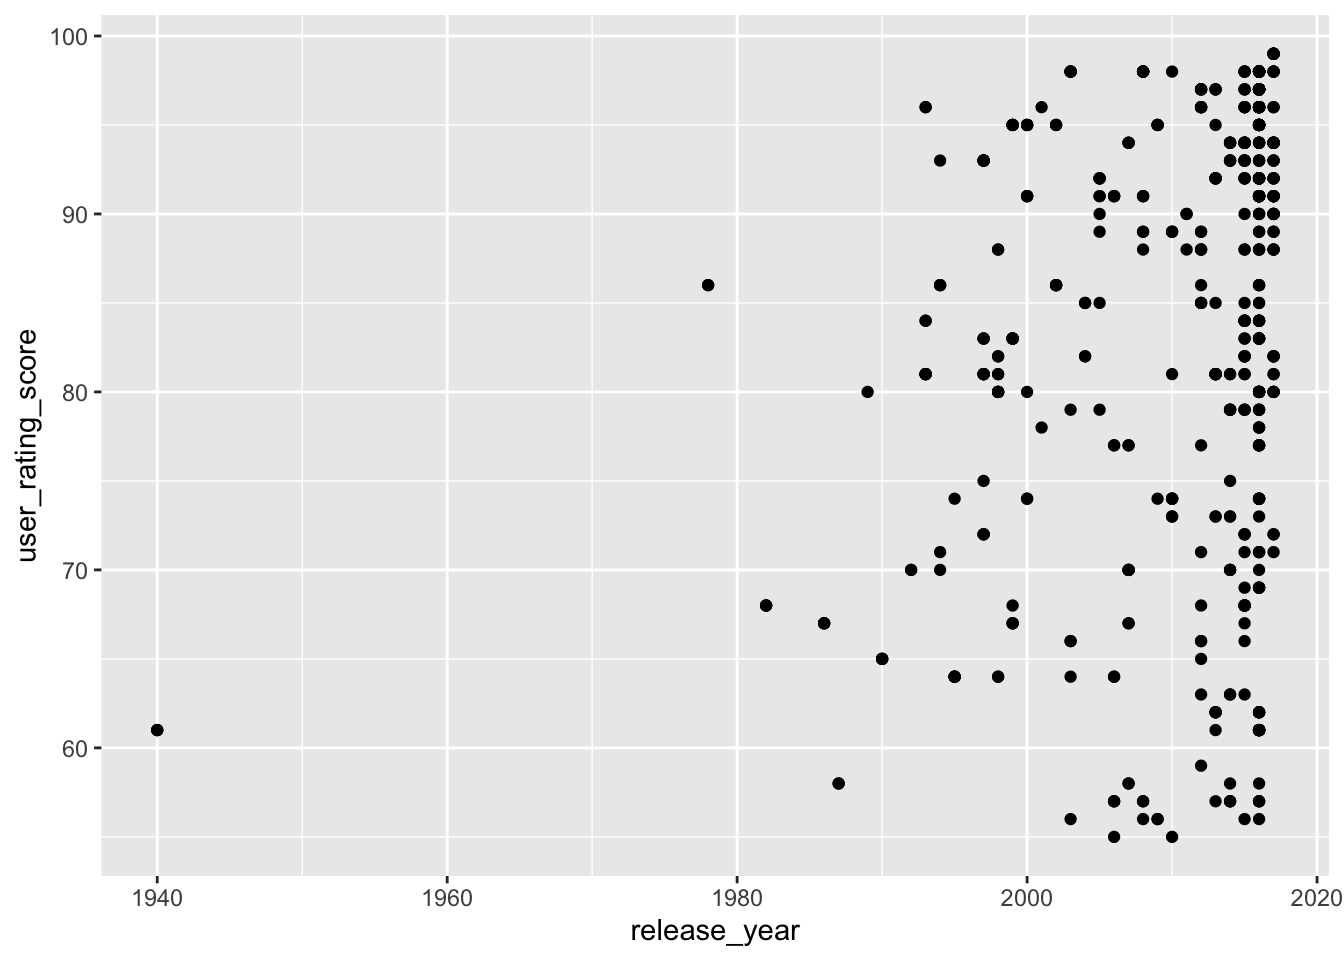
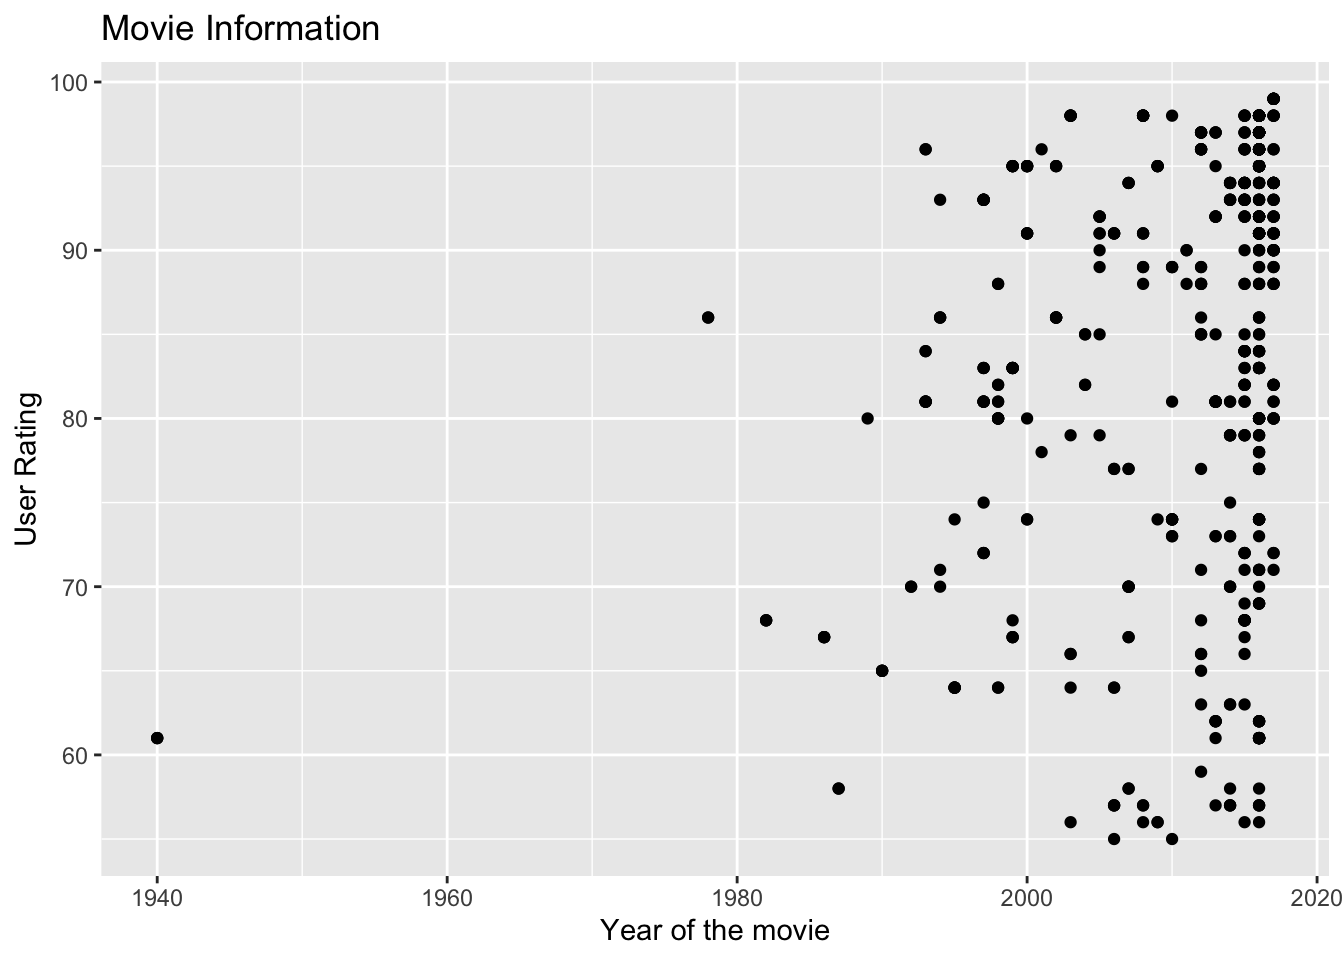
push

diff --git a/docs/inclass2.html b/docs/inclass2.html
@@ -6,6 +6,7 @@
 
 <meta name="viewport" content="width=device-width, initial-scale=1.0, user-scalable=yes">
 
+<meta name="dcterms.date" content="2023-11-01">
 
 <title>Zelha Tunc Pekkan Progress Journal - 3&nbsp; inclass2.qmd</title>
 <style>
@@ -197,6 +198,12 @@ pre > code.sourceCode > span > a:first-child::before { text-decoration: underlin
 <div class="quarto-title-meta">
 
     
+    <div>
+    <div class="quarto-title-meta-heading">Published</div>
+    <div class="quarto-title-meta-contents">
+      <p class="date">November 1, 2023</p>
+    </div>
+  </div>
   
     
   </div>
@@ -224,17 +231,55 @@ pre > code.sourceCode > span > a:first-child::before { text-decoration: underlin
 <span id="cb3-4"><a href="#cb3-4" aria-hidden="true" tabindex="-1"></a></span>
 <span id="cb3-5"><a href="#cb3-5" aria-hidden="true" tabindex="-1"></a><span class="fu">library</span>(dplyr)</span>
 <span id="cb3-6"><a href="#cb3-6" aria-hidden="true" tabindex="-1"></a></span>
-<span id="cb3-7"><a href="#cb3-7" aria-hidden="true" tabindex="-1"></a><span class="fu">library</span>(ggplot2)</span>
+<span id="cb3-7"><a href="#cb3-7" aria-hidden="true" tabindex="-1"></a><span class="fu">library</span>(tidyr)</span>
 <span id="cb3-8"><a href="#cb3-8" aria-hidden="true" tabindex="-1"></a></span>
-<span id="cb3-9"><a href="#cb3-9" aria-hidden="true" tabindex="-1"></a><span class="fu">library</span>(tidyr)</span></code><button title="Copy to Clipboard" class="code-copy-button"><i class="bi"></i></button></pre></div>
+<span id="cb3-9"><a href="#cb3-9" aria-hidden="true" tabindex="-1"></a><span class="fu">library</span>(ggplot2)</span></code><button title="Copy to Clipboard" class="code-copy-button"><i class="bi"></i></button></pre></div>
 </div>
-<pre class="{'''{r}"><code>netflix=readr::read_csv("netflix.csv")
-netflix'''</code></pre>
-<pre class="{'''{r}"><code>ggplot(netflix %&gt;% select(release_year, user_rating_score) %&gt;%
-filter(complete.cases(.)), 
-aes(x = release_year, y = user_rating_score)) + 
-geom_point()
-'''</code></pre>
+<div class="cell">
+<div class="sourceCode cell-code" id="cb4"><pre class="sourceCode r code-with-copy"><code class="sourceCode r"><span id="cb4-1"><a href="#cb4-1" aria-hidden="true" tabindex="-1"></a>netflix<span class="ot">=</span>readr<span class="sc">::</span><span class="fu">read_csv</span>(<span class="st">"netflix.csv"</span>)</span></code><button title="Copy to Clipboard" class="code-copy-button"><i class="bi"></i></button></pre></div>
+<div class="cell-output cell-output-stderr">
+<pre><code>Rows: 1000 Columns: 7
+── Column specification ────────────────────────────────────────────────────────
+Delimiter: ","
+chr (3): title, rating, ratinglevel
+dbl (4): ratingdescription, release_year, user_rating_score, user_rating_size
+
+ℹ Use `spec()` to retrieve the full column specification for this data.
+ℹ Specify the column types or set `show_col_types = FALSE` to quiet this message.</code></pre>
+</div>
+<div class="sourceCode cell-code" id="cb6"><pre class="sourceCode r code-with-copy"><code class="sourceCode r"><span id="cb6-1"><a href="#cb6-1" aria-hidden="true" tabindex="-1"></a>netflix</span></code><button title="Copy to Clipboard" class="code-copy-button"><i class="bi"></i></button></pre></div>
+<div class="cell-output cell-output-stdout">
+<pre><code># A tibble: 1,000 × 7
+   title     rating ratinglevel ratingdescription release_year user_rating_score
+   &lt;chr&gt;     &lt;chr&gt;  &lt;chr&gt;                   &lt;dbl&gt;        &lt;dbl&gt;             &lt;dbl&gt;
+ 1 White Ch… PG-13  crude and …                80         2004                82
+ 2 Lucky Nu… R      strong vio…               100         2006                NA
+ 3 Grey's A… TV-14  Parents st…                90         2016                98
+ 4 Prison B… TV-14  Parents st…                90         2008                98
+ 5 How I Me… TV-PG  Parental g…                70         2014                94
+ 6 Supernat… TV-14  Parents st…                90         2016                95
+ 7 Breaking… TV-MA  For mature…               110         2013                97
+ 8 The Vamp… TV-14  Parents st…                90         2017                91
+ 9 The Walk… TV-MA  For mature…               110         2015                98
+10 Pretty L… TV-14  Parents st…                90         2016                96
+# ℹ 990 more rows
+# ℹ 1 more variable: user_rating_size &lt;dbl&gt;</code></pre>
+</div>
+</div>
+<div class="cell">
+<div class="sourceCode cell-code" id="cb8"><pre class="sourceCode r code-with-copy"><code class="sourceCode r"><span id="cb8-1"><a href="#cb8-1" aria-hidden="true" tabindex="-1"></a><span class="fu">ggplot</span>(netflix <span class="sc">%&gt;%</span> <span class="fu">select</span>(release_year, user_rating_score) <span class="sc">%&gt;%</span></span>
+<span id="cb8-2"><a href="#cb8-2" aria-hidden="true" tabindex="-1"></a><span class="fu">filter</span>(<span class="fu">complete.cases</span>(.)), </span>
+<span id="cb8-3"><a href="#cb8-3" aria-hidden="true" tabindex="-1"></a><span class="fu">aes</span>(<span class="at">x =</span> release_year, <span class="at">y =</span> user_rating_score)) <span class="sc">+</span> </span>
+<span id="cb8-4"><a href="#cb8-4" aria-hidden="true" tabindex="-1"></a><span class="fu">geom_point</span>()<span class="sc">+</span></span>
+<span id="cb8-5"><a href="#cb8-5" aria-hidden="true" tabindex="-1"></a><span class="fu">labs</span>(</span>
+<span id="cb8-6"><a href="#cb8-6" aria-hidden="true" tabindex="-1"></a>  <span class="at">title=</span> <span class="st">"Movie Information"</span>,</span>
+<span id="cb8-7"><a href="#cb8-7" aria-hidden="true" tabindex="-1"></a>  <span class="at">x=</span> <span class="st">"Year of the movie"</span>,</span>
+<span id="cb8-8"><a href="#cb8-8" aria-hidden="true" tabindex="-1"></a>  <span class="at">y=</span> <span class="st">"User Rating"</span></span>
+<span id="cb8-9"><a href="#cb8-9" aria-hidden="true" tabindex="-1"></a>  )</span></code><button title="Copy to Clipboard" class="code-copy-button"><i class="bi"></i></button></pre></div>
+<div class="cell-output-display">
+<p><img src="inclass2_files/figure-html/unnamed-chunk-3-1.png" class="img-fluid" width="672"></p>
+</div>
+</div>
 
 
 
